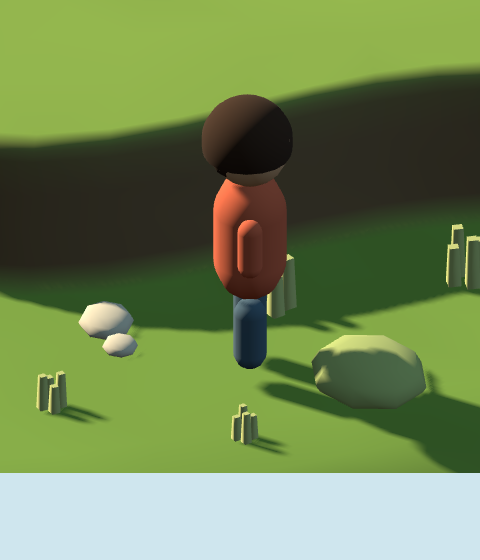
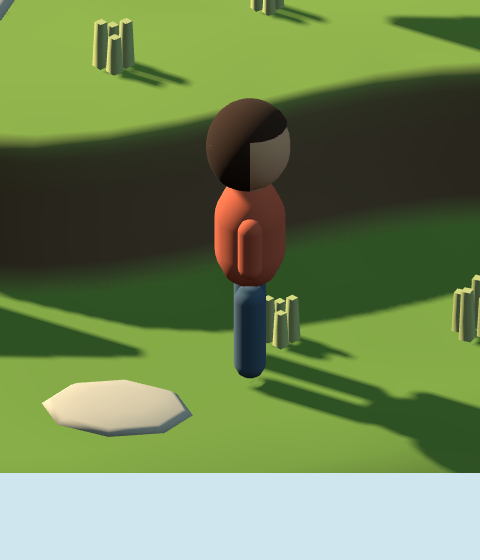
캐릭터 앞뒤 구분·비율 · 부두 승선 연출
캐릭터

머리카락이 머리 전체를 감싸 앞뒤가 똑같은 그림이었다. 정수리와 뒤통수만
덮게 했다 — 모델이 +Z를 보고 서므로 phi를 [π, 2π]로 잡으면 -Z만 덮인다.
앞에서는 이마와 얼굴 면이 드러난다. 얼굴 디테일은 여전히 없고, 머리카락과
살색이 나뉘는 것만으로 구분된다.

몸통이 너무 길었다. 몸통을 0.50 → 0.42로 줄이고 다리를 0.28 → 0.38로
늘렸다. 전체 키 1.1은 그대로다.

부두 승선

잠수와 같은 수준으로 만들었다.
  0~42%  부두 판자를 걸어 나간다
  42~55% 배에 오른다
  55~100% 배가 섬을 떠난다
카메라는 배 이동의 62%만 따라간다 — 같은 속도로 따라가면 배가 멀어지는
것이 안 보인다. 덮개는 출항이 보인 뒤(62% 지점)에 내려온다. 처음부터
덮으면 승선 자체가 안 보인다.

잠수가 "아래로"라면 이건 "옆으로 건너간다"이다(DESIGN.md §3).
두 연출이 그 구분을 그대로 보여준다.

바다를 실제로 건너는 것은 ⑥-1 몫이다. userData.boat와 userData.boatDir을
열어두었으니 그 방향에서 항해를 이어받으면 된다. 되돌아오면 배도 제자리로
돌린다.

시드 6개 자동 검사 전부 통과.

Claude-Session: https://claude.ai/code/session_01SZRMdQ646wNhwreMZVVGCv

diff --git a/index.html b/index.html
@@ -5546,6 +5546,8 @@ function buildIsland(seedStr, opts) {
     lg.add(flag);
   });
 
+  grp.userData.boat = boat;        // ⑥-1이 이 배를 이어받아 바다를 건넌다
+  grp.userData.boatDir = dockTh;   // 출항 방향(섬 바깥). 항해도 이 방향에서 시작한다
   grp.userData.landmarks = landmarks;
   grp.userData.coast = coast;
   grp.userData.height = height;
@@ -6184,37 +6186,48 @@ function buildCharacter() {
   for (var i = -1; i <= 1; i += 2) {
     var hip = new THREE.Group();
     hip.name = i < 0 ? "hipL" : "hipR";
-    hip.position.set(i * 0.088, 0.34, 0);
-    hip.add(put(limb(0.060, 0.16), mPants, 0, -0.14, 0));
+    // 초등학생이라 다리가 짧지만, 몸통이 더 길면 안 된다.
+    hip.position.set(i * 0.086, 0.44, 0);
+    hip.add(put(limb(0.058, 0.26), mPants, 0, -0.232, 0));
     body.add(hip); legs.push(hip);
   }
   // 몸통 — 아이 비율이라 짧고 통통하게
-  var torso = put(limb(0.150, 0.20), mShirt, 0, 0.56, 0, "torso");
+  var torso = put(limb(0.145, 0.13), mShirt, 0, 0.57, 0, "torso");
   torso.scale.set(1, 1, 0.88);
   body.add(torso);
   // 팔 — 어깨 그룹을 축으로 다리와 반대로 흔든다
   for (var a2 = -1; a2 <= 1; a2 += 2) {
     var sh = new THREE.Group();
     sh.name = a2 < 0 ? "armL" : "armR";
-    sh.position.set(a2 * 0.178, 0.72, 0);
-    sh.add(put(limb(0.045, 0.14), mShirt, 0, -0.12, 0));
+    sh.position.set(a2 * 0.172, 0.71, 0);
+    sh.add(put(limb(0.044, 0.15), mShirt, 0, -0.115, 0));
     body.add(sh);
   }
   // 머리 — 아이는 머리가 크다. 목은 짧게 붙여 뜨지 않게 한다.
-  body.add(put(new THREE.SphereGeometry(0.062, 10, 8), mSkin, 0, 0.80, 0));
-  var head = put(new THREE.SphereGeometry(0.155, 18, 14), mSkin, 0, 0.94, 0, "head");
+  body.add(put(new THREE.SphereGeometry(0.062, 10, 8), mSkin, 0, 0.79, 0));
+  var head = put(new THREE.SphereGeometry(0.155, 18, 14), mSkin, 0, 0.925, 0, "head");
   head.scale.set(1, 1.04, 0.95);
   body.add(head);
-  // 머리카락 — 얼굴 없이도 사람으로 읽히게 하는 부분.
-  // 위와 뒤를 덮는 모자 모양이라 뒷모습에서 특히 잘 보인다.
-  var hair = new THREE.Mesh(new THREE.SphereGeometry(0.166, 18, 14,
-    0, Math.PI * 2, 0, Math.PI * 0.60), mHair);
-  hair.position.set(0, 0.948, -0.010);
-  hair.name = "hair";
-  body.add(hair);
-  var hback = put(new THREE.SphereGeometry(0.128, 14, 11), mHair, 0, 0.925, -0.062);
-  hback.scale.set(1.02, 0.88, 0.72);
-  body.add(hback);
+  // 머리카락 — 정수리와 뒤통수만 덮는다. 머리 전체를 감싸면 앞뒤가 똑같이
+  // 보인다(실제로 그랬다). 앞에서는 이마와 얼굴 면이 드러나야 한다.
+  // 얼굴 디테일은 넣지 않는다 — 머리카락과 살색이 나뉘는 것만으로 구분된다.
+  // 모델은 +Z를 보고 서므로 phi를 [π, 2π]로 잡으면 -Z(뒤통수)만 덮인다.
+  var hairTop = new THREE.Mesh(new THREE.SphereGeometry(0.167, 18, 14,
+    0, Math.PI * 2, 0, Math.PI * 0.32), mHair);
+  hairTop.position.copy(head.position);
+  hairTop.scale.copy(head.scale);
+  hairTop.name = "hairTop";
+  body.add(hairTop);
+  var hairBack = new THREE.Mesh(new THREE.SphereGeometry(0.167, 18, 14,
+    Math.PI, Math.PI, 0, Math.PI * 0.74), mHair);
+  hairBack.position.copy(head.position);
+  hairBack.scale.copy(head.scale);
+  hairBack.name = "hairBack";
+  body.add(hairBack);
+  // 뒷머리 볼륨
+  var hnape = put(new THREE.SphereGeometry(0.118, 14, 11), mHair, 0, 0.905, -0.070);
+  hnape.scale.set(1.0, 0.86, 0.70);
+  body.add(hnape);
 
   // renderOrder는 Group에 걸어도 자식에 전파되지 않는다. 메시마다 걸어야
   // 실루엣이 본체 위로 덮이지 않는다.
@@ -6620,13 +6633,25 @@ function IslandView({ entries, seed, seaTone, onBack, onGo }) {
     // 덮개만 방향을 달리하는 것으로는 모자라서 카메라 자체를 움직인다.
     //  · 잠수 — 카메라가 아래로 내려간다. 세상이 화면 위로 흐른다
     //  · 항해 — 카메라가 옆으로 미끄러진다. 세상이 옆으로 흐른다
-    var DIVE_MS = 1400, SAIL_MS = 950;
+    var DIVE_MS = 1400, SAIL_MS = 950, DOCK_MS = 2100;
     var camHome = cam.position.clone();
     goRef.current = function () {
       if (going || !nearLmRef) return;
-      var lm = nearLmRef, dive = lm.id === "dive";
-      going = { dive: dive, t0: performance.now(), dur: dive ? DIVE_MS : SAIL_MS,
+      var lm = nearLmRef, dive = lm.id === "dive", sail = lm.id === "dock";
+      going = { dive: dive, sail: sail, t0: performance.now(),
+                dur: dive ? DIVE_MS : sail ? DOCK_MS : SAIL_MS,
                 y0: charGrp ? charGrp.position.y : 0 };
+      if (sail && charGrp && theIsle.userData.boat) {
+        // 부두 판자를 걸어 나가 배에 타고, 배가 섬을 떠난다.
+        // 잠수가 "아래로"라면 이건 "옆으로 건너간다"이다(DESIGN.md §3).
+        going.boat = theIsle.userData.boat;
+        going.boatHome = going.boat.position.clone();
+        going.bdir = theIsle.userData.boatDir;
+        going.from = charGrp.position.clone();
+        going.board = going.boat.position.clone();
+        going.board.y += 0.19;                       // 뱃바닥에 선다
+        going.face = Math.atan2(Math.cos(going.bdir), Math.sin(going.bdir));
+      }
       if (dive && charGrp) {
         // 웅덩이 한가운데로 뛰어든다. 카메라만 내려가면 무엇이 일어났는지 모른다.
         going.from = charGrp.position.clone();
@@ -6636,11 +6661,15 @@ function IslandView({ entries, seed, seaTone, onBack, onGo }) {
         going.splash.visible = false;
         scene.add(going.splash);
       }
-      setWipe({ dir: dive ? "down" : "side", ms: going.dur });
+      // 부두는 배가 떠나는 것을 보여준 뒤에 덮는다. 처음부터 덮으면 승선이 안 보인다.
+      setWipe({ dir: dive ? "down" : "side", ms: going.dur,
+                run: sail ? Math.round(going.dur * 0.34) : going.dur,
+                delay: sail ? Math.round(going.dur * 0.62) : 0 });
       window.setTimeout(function () {
         if (dive) { if (onGo) onGo("diary"); return; }   // 이 경우 화면이 바뀐다
         setWipe(null);
         setSoon(lm.name);
+        if (going.boat) going.boat.position.copy(going.boatHome);
         going = null;
         cam.position.copy(camHome);      // 되돌아오면 카메라도 제자리로
         cam.updateMatrixWorld();
@@ -6702,6 +6731,27 @@ function IslandView({ entries, seed, seaTone, onBack, onGo }) {
             if (going.splash.visible) going.splash.userData.at(sp);
           }
           cam.position.y = camHome.y - 4.2 * ease;
+        } else if (going.sail && going.boat) {
+          // 0~42% 부두를 걸어 나간다 · 42~55% 배에 오른다 · 55~100% 출항
+          var w = Math.min(1, u / 0.42);
+          var onBoat = Math.max(0, Math.min(1, (u - 0.42) / 0.13));
+          var away = Math.max(0, (u - 0.55) / 0.45);
+          away = away * away * (3 - 2 * away) * 7.0;        // 처음엔 천천히 미끄러진다
+          going.boat.position.set(going.boatHome.x + Math.cos(going.bdir) * away,
+                                  going.boatHome.y,
+                                  going.boatHome.z + Math.sin(going.bdir) * away);
+          if (charGrp) {
+            var bx = going.from.x + (going.board.x - going.from.x) * w;
+            var bz = going.from.z + (going.board.z - going.from.z) * w;
+            var by = going.from.y + (going.board.y - going.from.y) * (w * 0.7 + onBoat * 0.3);
+            charGrp.position.set(bx + Math.cos(going.bdir) * away,
+                                 by, bz + Math.sin(going.bdir) * away);
+            if (charGrp.userData.step) charGrp.userData.step(t0 / 1000, u < 0.42, going.face);
+          }
+          // 카메라가 배를 따라 옆으로 간다. 배보다 조금 느리게 따라가야
+          // 배가 멀어지는 것이 보인다.
+          cam.position.x = camHome.x + Math.cos(going.bdir) * away * 0.62;
+          cam.position.z = camHome.z + Math.sin(going.bdir) * away * 0.62;
         } else {
           cam.position.x = camHome.x + scrR.x * 5.5 * ease;
           cam.position.z = camHome.z + scrR.z * 5.5 * ease;
@@ -6815,7 +6865,8 @@ function IslandView({ entries, seed, seaTone, onBack, onGo }) {
           ? "linear-gradient(180deg, rgba(31,92,110,0.7), rgba(9,43,58,0.99))"
           : "linear-gradient(90deg, rgba(99,195,204,0.8), rgba(59,163,187,0.99))",
         animation: (wipe.dir === "down" ? "isleDive" : "isleSail") + " "
-                   + wipe.ms + "ms cubic-bezier(0.55,0,0.85,0.6) forwards"
+                   + (wipe.run || wipe.ms) + "ms cubic-bezier(0.55,0,0.85,0.6) "
+                   + (wipe.delay || 0) + "ms forwards"
       } }) : null,
     // 아직 만들지 않은 화면
     soon ? React.createElement("div", {

diff --git a/renders/README.md b/renders/README.md
@@ -50,8 +50,10 @@
 | 41_fit_wide | **카메라 재계산 뒤** 넓은 화면. 섬이 1.44배 커졌다 |
 | 42_fit_portrait | 폰 세로. 이때는 가로가 기준 |
 | 43_character | 캐릭터(잠수복형). 등에 진 공기통이 뒷모습의 특징 |
-| 44_char_back | **캐릭터(학생)** 뒷모습. 아이소메트릭에서 주로 보이는 각도 |
+| 44_char_back | **캐릭터(학생)** 뒷모습 — 머리카락이 뒤통수를 덮는다 |
 | 45_char_side | 옆모습 |
-| 46_char_front | 앞모습. 얼굴은 넣지 않는다 |
+| 46_char_front | 앞모습 — 이마와 얼굴 면이 드러나 뒤와 구분된다. 얼굴 디테일은 없다 |
 | 47_signs_fixed | 팻말 셋이 기둥·나무에 안 가린다. 캐릭터도 보인다 |
 | 48_dive_sign_moved | "내 안으로" 팻말을 옆으로 비켜 웅덩이를 안 덮는다 |
+| 49_boarding | 부두 승선. 캐릭터가 배 위에 선 높이 확인 |
+| 50_departing | 출항 5칸 뒤. ⑥-1이 이 방향에서 항해를 이어받는다 |
